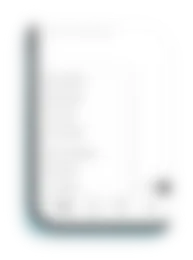
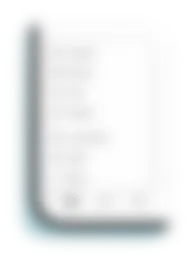
Attach Menu: thumbnail cropped in closer (1.6x)
The attach menu fills more of the cover, still whole, with the phone's
bottom-left corner and an even band of blue beside and below it.
Blurred grid stills redone.

Claude-Session: https://claude.ai/code/session_01KWunyGjQtk3sCnGrUXUHPS

diff --git a/src/content/work/attach-menu.md b/src/content/work/attach-menu.md
@@ -16,7 +16,7 @@ cover:
       mp4: images/work/attach-menu-dark.mp4
       poster: images/work/attach-menu-dark.jpg
     start: 6
-    rest: [0.4459, 0.6224, 1.35]   # thumbnail: in on the attach menu, the phone's bottom-left corner with the same width of blue beside and below it; its right side runs off the cover
+    rest: [0.388, 0.6803, 1.6]   # thumbnail: in on the attach menu, the phone's bottom-left corner with the same width of blue beside and below it; its right side runs off the cover
     device: full   # a finished film (phone, background, camera and touches all in it), edge to edge
 ---
 
